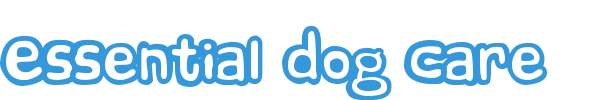
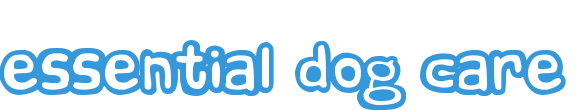
theme

Changed region(s): [[0.0, 0.24, 0.9931, 1.0]]

diff --git a/ui/setting.html b/ui/setting.html
@@ -31,20 +31,43 @@ body {background-color: #3498db;     -webkit-font-smoothing: antialiased;
   </style>
   </head>
  <body>
-    <BR><BR>
-  
-  <h1>Essential Dog Care </h1><BR>
 
-<center>
+
+
+ <center>
+ <div class="container" >
+
+
+  <img class="img-responsive" src="img/maintitle2.png"><br>
+  <img class="img-responsive" src="img/logo-sm.png"> <br>
+ 
+  <br>
 <div class="container">
-        <div class="row"><a href="test.html"> <img src="img\a.png"><a>
-		<a href="test.html"> <img  src="img\a.png"><a></div>
+        <div class="row"><a href="test.html"> <img src="img\a.png"> </a>
+		<a href="test.html"> <img  src="img\a.png"></a></div>
 		<div class="row"><a href="test.html"> <img  src="img\a.png"><a>
-		<a href="test.html"> <img  src="img\a.png"><a></div>
+		<a href="test.html"> <img  src="img\a.png"></a></div>
   
   
  
   </div>
-  <BR><BR><BR><BR><BR> <BR><BR><BR><BR><BR> 
+  <br><br>
+  
+
+ 
+ 
+ 
+   
+  
+
+
+
+
+  
+
+
+
+
+
   </body>
 </html>

diff --git a/ui/index.html b/ui/index.html
@@ -25,10 +25,10 @@
   <img class="img-responsive" src="img/logo-sm.png"> <br>
  
   <br>
-	<a href="nutrition.html" class="btn btn-primary btn-lg btn-block"><img src="img/nutr-icon.png"></a>
-	<a href="hazard.html" class="btn btn-primary btn-lg btn-block"><img src="img/hazard-icon.png"></a>
-	<a href="apartmentfinder.html" class="btn btn-primary btn-lg btn-block"><img src="img/home-icon.png"></a>
-	<a href="recall.html" class="btn btn-primary btn-lg btn-block"><img src="img/recall-icon.png"></a>
+	<a href="nutrition.html" class="btn btn-primary btn-lg btn-block"><img src="img/nutr-icon.png"><br>Nutrition</a>
+	<a href="hazard.html" class="btn btn-primary btn-lg btn-block"><img src="img/hazard-icon.png"><br>Hazard</a>
+	<a href="apartmentfinder.html" class="btn btn-primary btn-lg btn-block"><img src="img/home-icon.png"><br>Apartment Finder</a>
+	<a href="recall.html" class="btn btn-primary btn-lg btn-block"><img src="img/recall-icon.png"><br>Recall</a>
   
   
 

diff --git a/ui/nutr-carb.html b/ui/nutr-carb.html
@@ -24,7 +24,7 @@
          <span class="icon-bar"></span>
       </button>
  <a href="nutrition.html"><img class = "navbar-brand" src="img/back-icon.png" style="height:"30px"/></a>
-	 <a href="index.html"><img src="img\title.png"></a>
+	 <a href="index.html"><img src="img\minititle.png"></a>
 	  </ul>
    </div>
    <div class="collapse navbar-collapse" id="example-navbar-collapse">

diff --git a/ui/css/main.css b/ui/css/main.css
@@ -1,4 +1,7 @@
+a{
+	font-family:"Comic Sans", Times, serif;
 
+}
 
 body {
 
